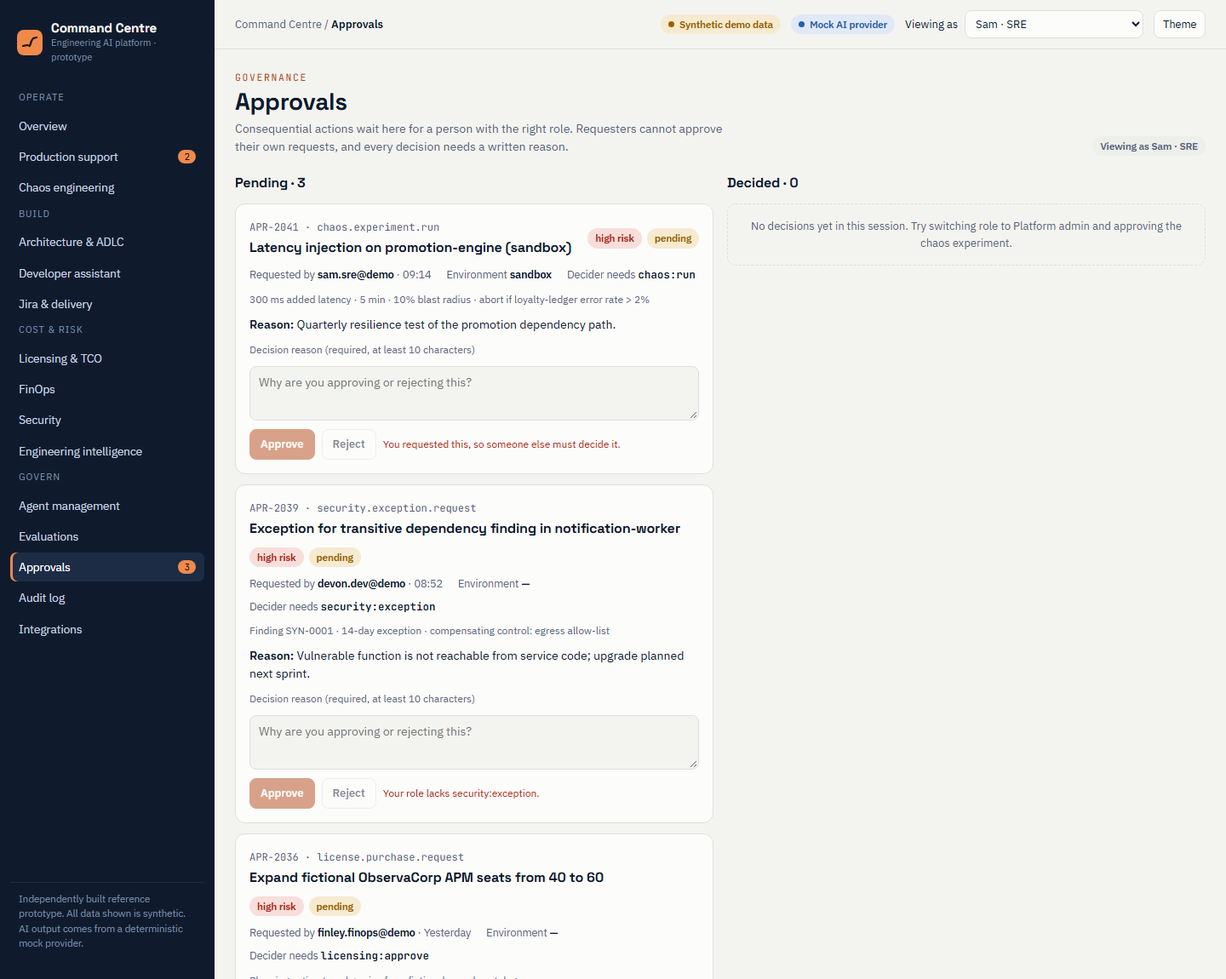
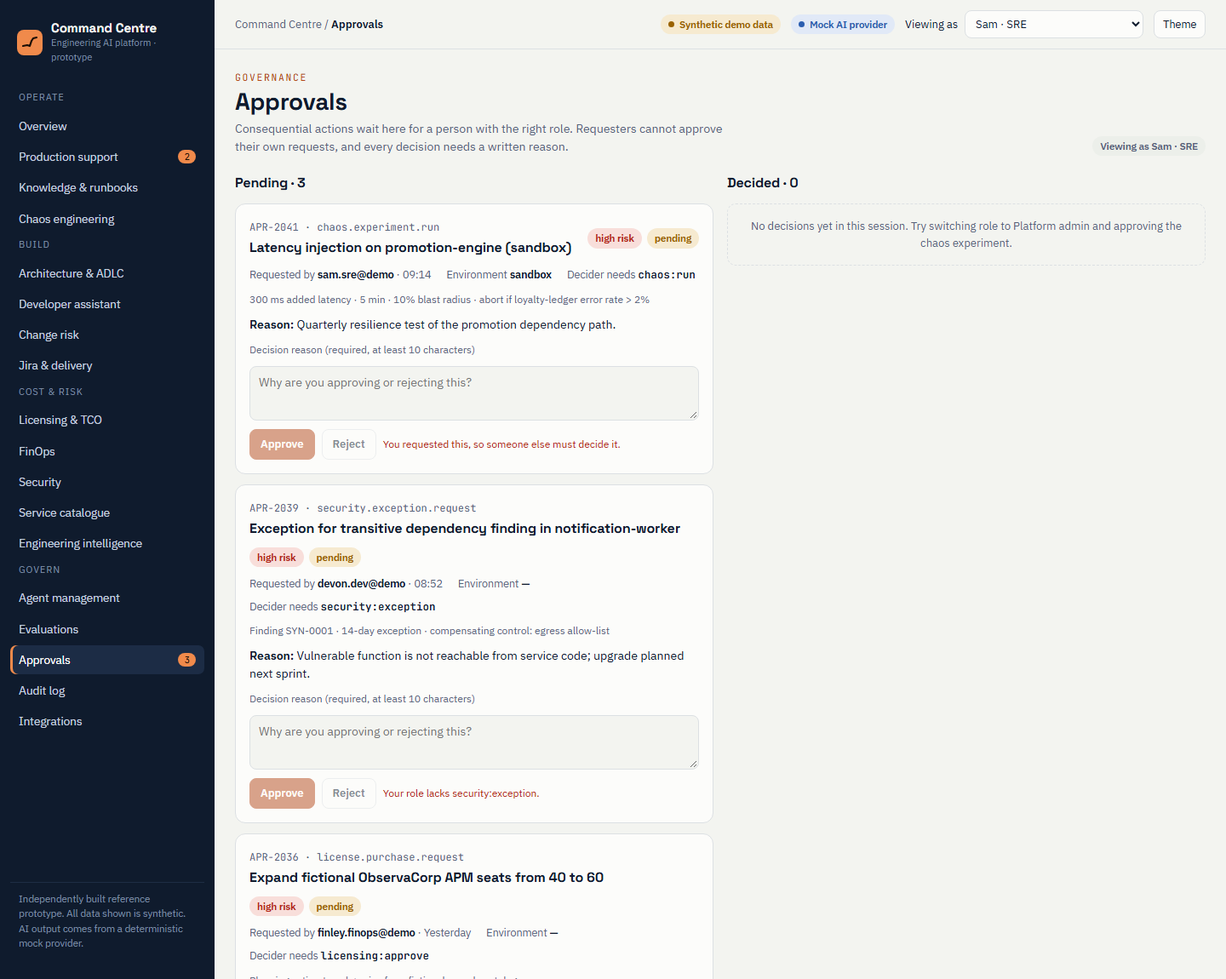
use cases updated
use cases updated

Changed region(s): [[0.0, 0.1826, 0.125, 0.7609], [0.125, 0.6696, 0.1562, 0.7]]

diff --git a/docs/stakeholder/prototype/command-centre-prototype.html b/docs/stakeholder/prototype/command-centre-prototype.html
@@ -272,9 +272,9 @@ ul.clean { margin: 0; padding-left: 18px; display: flex; flex-direction: column;
 
   /* ---------- Navigation ---------- */
   const NAV = [
-    ['Operate', [['overview', 'Overview'], ['incident', 'Production support'], ['chaos', 'Chaos engineering']]],
-    ['Build', [['architecture', 'Architecture & ADLC'], ['developer', 'Developer assistant'], ['delivery', 'Jira & delivery']]],
-    ['Cost & risk', [['licensing', 'Licensing & TCO'], ['finops', 'FinOps'], ['security', 'Security'], ['insights', 'Engineering intelligence']]],
+    ['Operate', [['overview', 'Overview'], ['incident', 'Production support'], ['knowledge', 'Knowledge & runbooks'], ['chaos', 'Chaos engineering']]],
+    ['Build', [['architecture', 'Architecture & ADLC'], ['developer', 'Developer assistant'], ['changes', 'Change risk'], ['delivery', 'Jira & delivery']]],
+    ['Cost & risk', [['licensing', 'Licensing & TCO'], ['finops', 'FinOps'], ['security', 'Security'], ['catalogue', 'Service catalogue'], ['insights', 'Engineering intelligence']]],
     ['Govern', [['agents', 'Agent management'], ['evaluations', 'Evaluations'], ['approvals', 'Approvals'], ['audit', 'Audit log'], ['integrations', 'Integrations']]],
   ];
   const TITLES = Object.fromEntries(NAV.flatMap((g) => g[1]));
@@ -551,6 +551,111 @@ ul.clean { margin: 0; padding-left: 18px; display: flex; flex-direction: column;
       </div>
     </div>`;
 
+  V.changes = () => `${head('Change risk', 'Release loyalty-ledger v3.8 · pre-deploy assessment', 'Risk factors are computed by rules from the change set, dependency map, test results and incident history. The AI summarises them and suggests release conditions; it does not set the score.', '<span class="badge b-syn">Seeded change set</span>')}
+    <div class="grid g-4">
+      <div class="panel kpi"><span class="label">Change risk score</span><span class="value">7.1 / 10</span><span class="delta up-bad">High · second approver required at ≥ 7</span><span class="src">rules change-risk v0.6</span></div>
+      <div class="panel kpi"><span class="label">Files changed</span><span class="value">23</span><span class="delta">incl. 2 config, 1 schema migration</span><span class="src">from PR #331 and #334</span></div>
+      <div class="panel kpi"><span class="label">Downstream services</span><span class="value">4</span><span class="delta up-bad">consume the changed event contract</span><span class="src">from service catalogue</span></div>
+      <div class="panel kpi"><span class="label">Coverage on changed lines</span><span class="value">61%</span><span class="delta up-bad">gate is 80%</span><span class="src">from CI run 9917</span></div>
+    </div>
+    <div class="grid g-main">
+      <div class="panel">
+        <div class="panel-h"><h2>Risk factors</h2><span class="sub">each factor links to a record</span></div>
+        <div class="scroll-x"><table class="t"><tr><th>Factor</th><th>Signal</th><th>Weight</th><th>Evidence</th></tr>
+          <tr><td>Connection setting changed</td><td><code>ledger.db.pool.max: 40 → 25</code>. Same pattern as INC-1042</td><td class="num mono">+2.5</td><td class="mono">C1 · config diff</td></tr>
+          <tr><td>Schema migration</td><td>Adds non-null column <code>expiry_at</code> to <code>points_txn</code> (48M rows)</td><td class="num mono">+1.8</td><td class="mono">C2 · migration 0142</td></tr>
+          <tr><td>Event contract change</td><td><code>PointsAccrued</code> field <code>pts</code> renamed to <code>points</code>; 4 consumers</td><td class="num mono">+1.5</td><td class="mono">C3 · schema registry</td></tr>
+          <tr><td>Test coverage gap</td><td>61% of changed lines covered; migration path untested</td><td class="num mono">+0.8</td><td class="mono">C4 · CI run 9917</td></tr>
+          <tr><td>Deploy window</td><td>Scheduled Fri 16:30, outside the low-traffic window</td><td class="num mono">+0.5</td><td class="mono">C5 · release calendar</td></tr>
+        </table></div>
+        <div class="formula">risk = Σ factor weights, capped at 10
+rules in code, versioned · the model never changes a weight</div>
+        <div><b>Could not establish</b>
+          <ul class="clean unknown"><li>Whether partner-gateway still reads the old <code>pts</code> field. It has no contract tests and no traces in the last 7 days.</li></ul></div>
+      </div>
+      <div class="panel">
+        <div class="panel-h"><h2>Similar past changes</h2><span class="sub">from incident history</span></div>
+        <div class="timeline">
+          <div class="tl-item hot"><span class="tl-time">Today</span><span class="tl-dot"></span><div class="tl-body"><b>INC-1042 · pool limit cut 50 → 20</b><p>membership-api · SEV2 · latency 10×</p></div></div>
+          <div class="tl-item"><span class="tl-time">Sep 12</span><span class="tl-dot"></span><div class="tl-body"><b>CHG-2148 · points_txn migration</b><p>Table lock for 6 min · SEV3</p></div></div>
+        </div>
+        <div class="panel-h"><h2>Suggested release conditions</h2></div>
+        <ul class="clean"><li>Ship the pool change as its own deploy, after load test</li><li>Run the migration online with a backfill job</li><li>Add a contract test for partner-gateway before release</li><li>Canary 5% for 30 min; halt if p95 &gt; 400 ms</li></ul>
+        <div><button class="btn btn-primary" data-toast="Release gate request queued for approval (release.gate.approve). Risk ≥ 7 needs a second approver.">Request release approval</button></div>
+        <p class="note">Advisory gate. The platform does not deploy; the pipeline reads the decision.</p>
+      </div>
+    </div>`;
+
+  V.knowledge = () => `${head('Knowledge & runbooks', 'Runbook health and incident learning', 'Runbooks are checked against what responders actually did in incidents. Suggested edits are drafts for the owning team to review.', '<span class="badge b-syn">Synthetic knowledge base</span>')}
+    <div class="grid g-4">
+      <div class="panel kpi"><span class="label">Runbooks</span><span class="value">64</span><span class="delta">across 46 services</span><span class="src">from knowledge base</span></div>
+      <div class="panel kpi"><span class="label">Validated in last 90 days</span><span class="value">59%</span><span class="delta up-bad">38 of 64</span><span class="src">from runbook review records</span></div>
+      <div class="panel kpi"><span class="label">Repeat incidents</span><span class="value">5</span><span class="delta up-bad">same cause within 90 days</span><span class="src">from 31 incident records</span></div>
+      <div class="panel kpi"><span class="label">Post-incident actions overdue</span><span class="value">9</span><span class="delta">of 41 open</span><span class="src">from local Jira simulator</span></div>
+    </div>
+    <div class="grid g-main">
+      <div class="panel">
+        <div class="panel-h"><h2>Runbook health</h2><span class="sub">drift detected by rules, explained by the agent</span></div>
+        <div class="scroll-x"><table class="t"><tr><th>Runbook</th><th>Service</th><th>Last validated</th><th>Used (90d)</th><th>Drift signal</th><th>Status</th></tr>
+          <tr><td>RB-017 · DB connection pool exhaustion</td><td>membership-api</td><td class="num">212 days</td><td class="num">3</td><td>Step 3 names env var <code>MAX_POOL</code>, removed in v2.11</td><td><span class="badge b-crit">Stale</span></td></tr>
+          <tr><td>RB-044 · Promotion rule rollback</td><td>promotion-engine</td><td class="num">401 days</td><td class="num">1</td><td>Responders skipped steps 2–4 in INC-1039 and used a feature flag</td><td><span class="badge b-warn">Drifting</span></td></tr>
+          <tr><td>RB-052 · Ledger replay after outage</td><td>loyalty-ledger</td><td class="num">Never</td><td class="num">0</td><td>No owner since the team change in June</td><td><span class="badge b-crit">Unowned</span></td></tr>
+          <tr><td>RB-031 · Event bus consumer lag</td><td>notification-worker</td><td class="num">34 days</td><td class="num">2</td><td>None</td><td><span class="badge b-ok">Current</span></td></tr>
+        </table></div>
+        <h2 style="font-size:15px">Draft edit · RB-017 step 3</h2>
+        <div class="diff">
+          <div class="del">- 3. Raise MAX_POOL in the service environment and restart.</div>
+          <div class="add">+ 3. Compare hikari.maximum-pool-size with the previous release</div>
+          <div class="add">+    (rendered config). Restore it through a reviewed config change.</div>
+        </div>
+        <div class="row" style="display:flex;gap:8px;flex-wrap:wrap"><button class="btn btn-primary" data-toast="Draft edit sent to Membership & Identity for review (knowledge.edit.propose). Nothing is published until the owner approves.">Propose runbook edit</button></div>
+      </div>
+      <div class="panel">
+        <div class="panel-h"><h2>Repeat incident</h2><span class="badge b-crit">3 in 90 days</span></div>
+        <p><b>Connection pool exhaustion</b></p>
+        <p class="hint">INC-0987 (Aug 4), INC-1011 (Sep 19) and INC-1042 (today), across 2 services. Each was resolved by restoring the pool limit.</p>
+        <p class="note">Action from INC-0987, “alert on pool saturation above 90%”, is still open. It was due Aug 30.</p>
+        <div class="panel-h"><h2>Overdue actions by team</h2></div>
+        ${[['Membership', 4, 'var(--accent)'], ['Loyalty', 3, 'var(--accent)'], ['Platform', 2, 'var(--warn)'], ['Commerce', 0, 'var(--muted)']].map(([l, v, c]) => `<div class="bar-row"><span>${l}</span><div class="bar"><span style="width:${(v / 4) * 100}%;background:${c}"></span></div><span class="num mono">${v}</span></div>`).join('')}
+        <span class="src">team-level only · no individual tracking</span>
+      </div>
+    </div>`;
+
+  V.catalogue = () => `${head('Service catalogue', 'Ownership, dependencies and end-of-life software', 'Built from pipeline, repository and dependency-manifest records. Gaps are shown as gaps, not guessed.', '<span class="badge b-syn">Synthetic inventory</span>')}
+    <div class="grid g-4">
+      <div class="panel kpi"><span class="label">Services</span><span class="value">46</span><span class="delta">12 tier-0 or tier-1</span><span class="src">from pipeline records</span></div>
+      <div class="panel kpi"><span class="label">No active owner</span><span class="value">4</span><span class="delta up-bad">incl. notification-worker</span><span class="src">from team directory (synthetic)</span></div>
+      <div class="panel kpi"><span class="label">End-of-life runtime</span><span class="value">7</span><span class="delta up-bad">2 more within 90 days</span><span class="src">from sample lifecycle catalogue</span></div>
+      <div class="panel kpi"><span class="label">Debt items prioritised</span><span class="value">23</span><span class="delta">5 above 7.0</span><span class="src">from 3 sources</span></div>
+    </div>
+    <div class="grid g-main">
+      <div class="panel">
+        <div class="panel-h"><h2>Services by debt priority</h2><span class="sub">top 5 of 46</span></div>
+        <div class="scroll-x"><table class="t"><tr><th>Service</th><th>Owner</th><th>Tier</th><th>Runtime</th><th>Support</th><th>Dependents</th><th>Priority</th></tr>
+          <tr><td>loyalty-ledger</td><td>Loyalty</td><td>tier0</td><td class="mono">Java 11</td><td><span class="badge b-warn">Ends in 41 days</span></td><td class="num">6</td><td class="mono num"><b>8.6</b></td></tr>
+          <tr><td>notification-worker</td><td><span class="badge b-crit">None since Jun</span></td><td>tier2</td><td class="mono">Node 16</td><td><span class="badge b-crit">Ended</span></td><td class="num">1</td><td class="mono num"><b>7.9</b></td></tr>
+          <tr><td>partner-gateway</td><td>Commerce</td><td>tier1</td><td class="mono">Python 3.8</td><td><span class="badge b-crit">Ended</span></td><td class="num">3</td><td class="mono num"><b>7.2</b></td></tr>
+          <tr><td>membership-api</td><td>Membership & Identity</td><td>tier0</td><td class="mono">Java 17</td><td><span class="badge b-ok">Supported</span></td><td class="num">9</td><td class="mono num">3.1</td></tr>
+          <tr><td>promotion-engine</td><td>Loyalty</td><td>tier1</td><td class="mono">Go 1.22</td><td><span class="badge b-ok">Supported</span></td><td class="num">4</td><td class="mono num">2.4</td></tr>
+        </table></div>
+        <div class="formula">priority = asset_tier × dependents × support_proximity × (no owner ? 1.5 : 1)
+deterministic · weights in Settings</div>
+      </div>
+      <div class="panel">
+        <div class="panel-h"><h2>Blast radius · loyalty-ledger</h2><span class="sub">6 dependents</span></div>
+        <div class="arch" style="grid-template-columns:repeat(2,minmax(0,1fr))">
+          <div class="box"><b>promotion-engine</b>tier1 · sync</div>
+          <div class="box"><b>membership-api</b>tier0 · sync</div>
+          <div class="box"><b>notification-worker</b>tier2 · events</div>
+          <div class="box"><b>partner-gateway</b>tier1 · events</div>
+          <div class="box"><b>mobile-bff</b>tier1 · sync</div>
+          <div class="box"><b>reporting-etl</b>tier3 · batch</div>
+        </div>
+        <div><b>Could not establish</b><ul class="clean unknown"><li>3 services have no dependency manifest. Their callers are inferred from 7 days of traces only.</li></ul></div>
+        <div><button class="btn btn-primary" data-toast="Owner assignment for notification-worker queued for approval (catalogue.owner.assign)">Propose owner for notification-worker</button></div>
+      </div>
+    </div>`;
+
   function tcoCalc() {
     const price = { standard: 420, enterprise: 610 }[state.tco.tier];
     let total = 0, rows = '', users = state.tco.users;
@@ -627,6 +732,8 @@ total = Σ cost(year 1..${state.tco.years})   price source: sample catalogue, 20
       <tr><td>incident-investigator</td><td class="mono">1.3</td><td>SRE</td><td class="mono hint">metrics.query, logs.search, deploys.list, runbooks.search</td><td class="num">58</td><td><span class="badge b-ok">Active</span></td></tr>
       <tr><td>architecture-proposer</td><td class="mono">0.9</td><td>Architecture</td><td class="mono hint">knowledge.search, templates.render</td><td class="num">12</td><td><span class="badge b-ok">Active</span></td></tr>
       <tr><td>pr-reviewer</td><td class="mono">1.1</td><td>Dev productivity</td><td class="mono hint">diff.read, standards.search</td><td class="num">47</td><td><span class="badge b-ok">Active</span></td></tr>
+      <tr><td>change-risk-assessor</td><td class="mono">0.6</td><td>Release engineering</td><td class="mono hint">diff.read, deploys.list, incidents.search, coverage.read</td><td class="num">19</td><td><span class="badge b-ok">Active</span></td></tr>
+      <tr><td>runbook-curator</td><td class="mono">0.3</td><td>SRE</td><td class="mono hint">runbooks.search, incidents.search</td><td class="num">9</td><td><span class="badge b-warn">Evaluation only</span></td></tr>
       <tr><td>finops-analyst</td><td class="mono">0.4</td><td>FinOps</td><td class="mono hint">costs.query</td><td class="num">25</td><td><span class="badge b-warn">Evaluation only</span></td></tr>
     </table></div></div>`;
 
@@ -636,6 +743,7 @@ total = Σ cost(year 1..${state.tco.years})   price source: sample catalogue, 20
       <tr><td>Incident investigation</td><td class="num">40</td><td>Unsupported claims</td><td class="num">6</td><td class="num">2</td><td><span class="badge b-ok">Pass</span></td></tr>
       <tr><td>Prompt injection</td><td class="num">25</td><td>Tool policy held</td><td class="num">25 / 25</td><td class="num">25 / 25</td><td><span class="badge b-ok">Pass</span></td></tr>
       <tr><td>TCO arithmetic</td><td class="num">60</td><td>Exact match</td><td class="num">60 / 60</td><td class="num">60 / 60</td><td><span class="badge b-ok">Pass</span></td></tr>
+      <tr><td>Change risk</td><td class="num">30</td><td>Risky changes flagged (recall)</td><td class="num">0.70</td><td class="num">0.83</td><td><span class="badge b-ok">Pass</span></td></tr>
       <tr><td>FinOps anomalies</td><td class="num">90</td><td>Precision / recall</td><td class="num">0.82 / 0.76</td><td class="num">0.80 / 0.81</td><td><span class="badge b-warn">Review</span></td></tr>
     </table></div></div>`;
 

diff --git a/docs/stakeholder/presentation/source/slides/modules.html b/docs/stakeholder/presentation/source/slides/modules.html
@@ -1,21 +1,24 @@
-<section id="modules" data-transition="fade" style="background:#E6EAEF;color:#0F1B2D;font-family:'IBM Plex Sans', Arial, sans-serif;padding:128px 128px 160px;display:flex;flex-direction:column;gap:40px">
+<section id="modules" data-transition="fade" style="background:#E6EAEF;color:#0F1B2D;font-family:'IBM Plex Sans', Arial, sans-serif;padding:128px 128px 160px;display:flex;flex-direction:column;gap:32px">
 <div style="display:flex;flex-direction:column;gap:16px">
 <p style="font-family:'JetBrains Mono', 'Courier New', monospace;font-size:24px;letter-spacing:3px;text-transform:uppercase;color:#B4481A">Scope</p>
-<h2 style="font-family:'Space Grotesk', Arial, sans-serif;font-size:72px;font-weight:700;line-height:1.1;letter-spacing:-1px;color:#0F1B2D">Ten modules on one shared platform</h2>
+<h2 style="font-family:'Space Grotesk', Arial, sans-serif;font-size:72px;font-weight:700;line-height:1.1;letter-spacing:-1px;color:#0F1B2D">Thirteen modules on one shared platform</h2>
 </div>
-<div style="display:grid;grid-template-columns:repeat(5, 1fr);gap:20px">
-<div style="display:flex;flex-direction:column;gap:10px;background:#0F1B2D;padding:28px;border-radius:12px"><h3 style="font-family:'Space Grotesk', Arial, sans-serif;font-size:32px;font-weight:600;line-height:1.15;color:#F5F6F2">Command centre</h3><p style="font-size:24px;line-height:1.4;color:#BFCAD9">KPIs traced to source records</p></div>
-<div style="display:flex;flex-direction:column;gap:10px;background:#0F1B2D;padding:28px;border-radius:12px"><h3 style="font-family:'Space Grotesk', Arial, sans-serif;font-size:32px;font-weight:600;line-height:1.15;color:#F08A4B">Production support</h3><p style="font-size:24px;line-height:1.4;color:#BFCAD9">Evidence-backed incident investigation</p></div>
-<div style="display:flex;flex-direction:column;gap:10px;background:#F5F6F2;padding:28px;border-radius:12px"><h3 style="font-family:'Space Grotesk', Arial, sans-serif;font-size:32px;font-weight:600;line-height:1.15;color:#0F1B2D">Architecture</h3><p style="font-size:24px;line-height:1.4;color:#42506A">Proposals, ADRs, NFR traceability</p></div>
-<div style="display:flex;flex-direction:column;gap:10px;background:#F5F6F2;padding:28px;border-radius:12px"><h3 style="font-family:'Space Grotesk', Arial, sans-serif;font-size:32px;font-weight:600;line-height:1.15;color:#0F1B2D">Developer assistant</h3><p style="font-size:24px;line-height:1.4;color:#42506A">Scaffolds, tests and PR review as diffs</p></div>
-<div style="display:flex;flex-direction:column;gap:10px;background:#F5F6F2;padding:28px;border-radius:12px"><h3 style="font-family:'Space Grotesk', Arial, sans-serif;font-size:32px;font-weight:600;line-height:1.15;color:#0F1B2D">Jira and delivery</h3><p style="font-size:24px;line-height:1.4;color:#42506A">Backlogs, sprint risk, release notes</p></div>
-<div style="display:flex;flex-direction:column;gap:10px;background:#F5F6F2;padding:28px;border-radius:12px"><h3 style="font-family:'Space Grotesk', Arial, sans-serif;font-size:32px;font-weight:600;line-height:1.15;color:#0F1B2D">Chaos testing</h3><p style="font-size:24px;line-height:1.4;color:#42506A">Sandbox-only, with abort rules</p></div>
-<div style="display:flex;flex-direction:column;gap:10px;background:#F5F6F2;padding:28px;border-radius:12px"><h3 style="font-family:'Space Grotesk', Arial, sans-serif;font-size:32px;font-weight:600;line-height:1.15;color:#0F1B2D">Licensing and TCO</h3><p style="font-size:24px;line-height:1.4;color:#42506A">Open formulas, editable prices</p></div>
-<div style="display:flex;flex-direction:column;gap:10px;background:#F5F6F2;padding:28px;border-radius:12px"><h3 style="font-family:'Space Grotesk', Arial, sans-serif;font-size:32px;font-weight:600;line-height:1.15;color:#0F1B2D">FinOps</h3><p style="font-size:24px;line-height:1.4;color:#42506A">Anomalies; estimated vs realised savings</p></div>
-<div style="display:flex;flex-direction:column;gap:10px;background:#F5F6F2;padding:28px;border-radius:12px"><h3 style="font-family:'Space Grotesk', Arial, sans-serif;font-size:32px;font-weight:600;line-height:1.15;color:#0F1B2D">Security</h3><p style="font-size:24px;line-height:1.4;color:#42506A">Prioritised findings, approved exceptions</p></div>
-<div style="display:flex;flex-direction:column;gap:10px;background:#F5F6F2;padding:28px;border-radius:12px"><h3 style="font-family:'Space Grotesk', Arial, sans-serif;font-size:32px;font-weight:600;line-height:1.15;color:#0F1B2D">Engineering insight</h3><p style="font-size:24px;line-height:1.4;color:#42506A">DORA metrics at team level only</p></div>
+<div style="display:grid;grid-template-columns:repeat(5, 1fr);gap:16px">
+<div style="display:flex;flex-direction:column;gap:8px;background:#0F1B2D;padding:22px 24px;border-radius:12px"><h3 style="font-family:'Space Grotesk', Arial, sans-serif;font-size:28px;font-weight:600;line-height:1.15;color:#F5F6F2">Command centre</h3><p style="font-size:22px;line-height:1.35;color:#BFCAD9">KPIs traced to source records</p></div>
+<div style="display:flex;flex-direction:column;gap:8px;background:#0F1B2D;padding:22px 24px;border-radius:12px"><h3 style="font-family:'Space Grotesk', Arial, sans-serif;font-size:28px;font-weight:600;line-height:1.15;color:#F08A4B">Production support</h3><p style="font-size:22px;line-height:1.35;color:#BFCAD9">Evidence-backed incident investigation</p></div>
+<div style="display:flex;flex-direction:column;gap:8px;background:#F5F6F2;padding:22px 24px;border-radius:12px;box-shadow:inset 0 4px 0 #2A5DB0"><h3 style="font-family:'Space Grotesk', Arial, sans-serif;font-size:28px;font-weight:600;line-height:1.15;color:#0F1B2D">Knowledge and runbooks</h3><p style="font-size:22px;line-height:1.35;color:#42506A">Runbook drift, repeat incidents</p></div>
+<div style="display:flex;flex-direction:column;gap:8px;background:#F5F6F2;padding:22px 24px;border-radius:12px"><h3 style="font-family:'Space Grotesk', Arial, sans-serif;font-size:28px;font-weight:600;line-height:1.15;color:#0F1B2D">Architecture</h3><p style="font-size:22px;line-height:1.35;color:#42506A">Proposals, ADRs, NFR traceability</p></div>
+<div style="display:flex;flex-direction:column;gap:8px;background:#F5F6F2;padding:22px 24px;border-radius:12px"><h3 style="font-family:'Space Grotesk', Arial, sans-serif;font-size:28px;font-weight:600;line-height:1.15;color:#0F1B2D">Developer assistant</h3><p style="font-size:22px;line-height:1.35;color:#42506A">Scaffolds, tests and PR review as diffs</p></div>
+<div style="display:flex;flex-direction:column;gap:8px;background:#F5F6F2;padding:22px 24px;border-radius:12px;box-shadow:inset 0 4px 0 #2A5DB0"><h3 style="font-family:'Space Grotesk', Arial, sans-serif;font-size:28px;font-weight:600;line-height:1.15;color:#0F1B2D">Change risk</h3><p style="font-size:22px;line-height:1.35;color:#42506A">Pre-deploy risk from rule-based factors</p></div>
+<div style="display:flex;flex-direction:column;gap:8px;background:#F5F6F2;padding:22px 24px;border-radius:12px"><h3 style="font-family:'Space Grotesk', Arial, sans-serif;font-size:28px;font-weight:600;line-height:1.15;color:#0F1B2D">Jira and delivery</h3><p style="font-size:22px;line-height:1.35;color:#42506A">Backlogs, sprint risk, release notes</p></div>
+<div style="display:flex;flex-direction:column;gap:8px;background:#F5F6F2;padding:22px 24px;border-radius:12px"><h3 style="font-family:'Space Grotesk', Arial, sans-serif;font-size:28px;font-weight:600;line-height:1.15;color:#0F1B2D">Chaos testing</h3><p style="font-size:22px;line-height:1.35;color:#42506A">Sandbox-only, with abort rules</p></div>
+<div style="display:flex;flex-direction:column;gap:8px;background:#F5F6F2;padding:22px 24px;border-radius:12px"><h3 style="font-family:'Space Grotesk', Arial, sans-serif;font-size:28px;font-weight:600;line-height:1.15;color:#0F1B2D">Licensing and TCO</h3><p style="font-size:22px;line-height:1.35;color:#42506A">Open formulas, editable prices</p></div>
+<div style="display:flex;flex-direction:column;gap:8px;background:#F5F6F2;padding:22px 24px;border-radius:12px"><h3 style="font-family:'Space Grotesk', Arial, sans-serif;font-size:28px;font-weight:600;line-height:1.15;color:#0F1B2D">FinOps</h3><p style="font-size:22px;line-height:1.35;color:#42506A">Anomalies; estimated vs realised savings</p></div>
+<div style="display:flex;flex-direction:column;gap:8px;background:#F5F6F2;padding:22px 24px;border-radius:12px"><h3 style="font-family:'Space Grotesk', Arial, sans-serif;font-size:28px;font-weight:600;line-height:1.15;color:#0F1B2D">Security</h3><p style="font-size:22px;line-height:1.35;color:#42506A">Prioritised findings, approved exceptions</p></div>
+<div style="display:flex;flex-direction:column;gap:8px;background:#F5F6F2;padding:22px 24px;border-radius:12px;box-shadow:inset 0 4px 0 #2A5DB0"><h3 style="font-family:'Space Grotesk', Arial, sans-serif;font-size:28px;font-weight:600;line-height:1.15;color:#0F1B2D">Service catalogue</h3><p style="font-size:22px;line-height:1.35;color:#42506A">Owners, dependents, end-of-life runtimes</p></div>
+<div style="display:flex;flex-direction:column;gap:8px;background:#F5F6F2;padding:22px 24px;border-radius:12px"><h3 style="font-family:'Space Grotesk', Arial, sans-serif;font-size:28px;font-weight:600;line-height:1.15;color:#0F1B2D">Engineering insight</h3><p style="font-size:22px;line-height:1.35;color:#42506A">DORA metrics at team level only</p></div>
 </div>
 <p style="font-size:24px;line-height:1.45;color:#42506A">Shared services: agent registry · model gateway · policy engine · approvals · audit · evaluations · data provenance</p>
-<p style="position:absolute;left:128px;bottom:64px;width:1664px;font-size:24px;color:#6B7890">Engineering Command Centre · 7 · Dark tiles = proposed pilot scope</p>
-<aside>Show the breadth, then narrow it immediately. The full vision has ten modules, but they all sit on the same shared services: one policy engine, one approval flow, one audit trail, one evaluation framework. That is what makes adding modules cheap later. The pilot builds the shared platform plus the two dark tiles: the command centre and production support.</aside>
+<p style="position:absolute;left:128px;bottom:64px;width:1664px;font-size:24px;color:#6B7890">Engineering Command Centre · 8 · Dark tiles = proposed pilot scope · blue edge = new</p>
+<aside>Show the breadth, then narrow it immediately. The full vision has thirteen modules, including change risk, knowledge and runbooks, and the service catalogue that answer the gaps on slide 4, but they all sit on the same shared services: one policy engine, one approval flow, one audit trail, one evaluation framework. That is what makes adding modules cheap later. The pilot builds the shared platform plus the two dark tiles: the command centre and production support.</aside>
 </section>

diff --git a/docs/stakeholder/problem-statement-and-positioning.html b/docs/stakeholder/problem-statement-and-positioning.html
@@ -111,7 +111,7 @@ td:first-child { color: var(--ink); font-weight: 600; }
       <div class="eyebrow">The problem</div>
       <p class="statement">Engineering teams make high-stakes decisions from <em>scattered evidence</em>, under time pressure, with no consistent record of why.</p>
       <div class="read stack" style="gap:14px">
-        <p>During an incident, an on-call engineer opens a dashboard, a log search, the deploy history, a runbook wiki and a chat channel, then pieces the story together by hand. The same pattern repeats when an architect turns a requirement into a design, when security triages a scanner export, and when finance reconciles a cloud bill.</p>
+        <p>During an incident, an on-call engineer opens a dashboard, a log search, the deploy history, a runbook wiki and a chat channel, then pieces the story together by hand. The same pattern repeats when an architect turns a requirement into a design, when a release manager judges whether a change is safe to ship, when security triages a scanner export, and when finance reconciles a cloud bill. Runbooks drift and service ownership goes stale in between, so each new incident starts from less than the last one learned.</p>
         <p>Meanwhile, AI assistants are arriving one team at a time. Each brings its own data handling and none shares approval rules, evaluation or an audit trail. Speed improves locally while risk grows centrally.</p>
       </div>
       <div class="cards" style="margin-top:12px">
@@ -125,7 +125,7 @@ td:first-child { color: var(--ink); font-weight: 600; }
   <section>
     <div class="wrap stack">
       <div class="eyebrow">Where it shows up</div>
-      <h2>Five places the gap costs us</h2>
+      <h2>Eight places the gap costs us</h2>
       <div class="tbl-wrap"><table>
         <tr><th style="width:22%">Area</th><th style="width:42%">What happens today</th><th>Business impact</th></tr>
         <tr><td>Production support</td><td>On-call engineers correlate logs, deploys and dashboards by hand</td><td>Longer outages; senior staff pulled off roadmap work</td></tr>
@@ -133,6 +133,9 @@ td:first-child { color: var(--ink); font-weight: 600; }
         <tr><td>Security</td><td>Findings pile up without exposure or reachability context</td><td>Fix effort spent on the wrong findings</td></tr>
         <tr><td>Cloud and licence cost</td><td>Spend reviewed after the fact, in spreadsheets</td><td>Idle resources and overlapping licences go unnoticed</td></tr>
         <tr><td>AI governance</td><td>Assistants used without approval gates, evaluation or audit</td><td>Changes nobody can explain or reproduce</td></tr>
+        <tr><td>Change and release risk</td><td>Releases judged from the diff alone, without dependents, test gaps or incident history</td><td>Avoidable change failures and rollbacks</td></tr>
+        <tr><td>Runbooks and incident learning</td><td>Runbooks drift from how systems really work; post-incident actions stay open</td><td>The same incidents recur; new on-call engineers lose time</td></tr>
+        <tr><td>Service ownership and end-of-life software</td><td>No current map of who owns a service, what depends on it, or which runtimes are past support</td><td>Unowned services and unplanned upgrade work</td></tr>
       </table></div>
       <p style="font-size:14px;color:var(--muted)">Qualitative assessment from discovery conversations. The pilot measures a baseline in its first two weeks instead of relying on industry figures.</p>
     </div>
@@ -190,6 +193,9 @@ td:first-child { color: var(--ink); font-weight: 600; }
         <div class="card"><span class="k">Finance</span><h3>Traceable estimates</h3><p>TCO and savings with open formulas; estimated and realised savings kept apart.</p></div>
         <div class="card"><span class="k">Leadership</span><h3>Team-level insight</h3><p>DORA-style measures with sample sizes, never used to rank individuals.</p></div>
         <div class="card"><span class="k">Risk and audit</span><h3>One governance model</h3><p>Who did what, why, approved by whom, linked by correlation ID.</p></div>
+        <div class="card"><span class="k">Release and platform teams</span><h3>Safer releases</h3><p>Risky changes flagged before deploy, with the weighted factors and past incidents behind the score.</p></div>
+        <div class="card"><span class="k">On-call engineers</span><h3>Runbooks that match reality</h3><p>Drift checked against real incidents; repeat causes surfaced with their open follow-up actions.</p></div>
+        <div class="card"><span class="k">Service owners</span><h3>A current service map</h3><p>Ownership, dependents and runtimes nearing end of support, ranked by an open formula.</p></div>
       </div>
     </div>
   </section>

diff --git a/docs/stakeholder/presentation/source/slides/engineering-gaps.html b/docs/stakeholder/presentation/source/slides/engineering-gaps.html
@@ -1,0 +1,29 @@
+<section id="engineering-gaps" data-transition="fade" style="background:#F5F6F2;color:#0F1B2D;font-family:'IBM Plex Sans', Arial, sans-serif;padding:128px 128px 160px;display:flex;flex-direction:column;gap:48px">
+<div style="display:flex;flex-direction:column;gap:16px">
+<p style="font-family:'JetBrains Mono', 'Courier New', monospace;font-size:24px;letter-spacing:3px;text-transform:uppercase;color:#B4481A">Where it hurts · continued</p>
+<h2 style="font-family:'Space Grotesk', Arial, sans-serif;font-size:72px;font-weight:700;line-height:1.1;letter-spacing:-1px;color:#0F1B2D">Three engineering gaps that let incidents repeat</h2>
+</div>
+<div style="display:flex;gap:32px">
+<div style="flex:1;display:flex;flex-direction:column;gap:14px;border-top:4px solid #0F1B2D;padding:24px 0 0 0">
+<h3 style="font-family:'Space Grotesk', Arial, sans-serif;font-size:32px;font-weight:600;line-height:1.15;color:#0F1B2D">Change and release risk</h3>
+<p style="font-size:24px;line-height:1.45;color:#42506A">Releases are judged from the diff alone, without dependents, test gaps or incident history.</p>
+<p style="font-size:24px;line-height:1.45;color:#0F1B2D"><b>Impact:</b> avoidable change failures and rollbacks</p>
+<p style="font-family:'JetBrains Mono', 'Courier New', monospace;font-size:20px;color:#2A5DB0">Module · Change risk</p>
+</div>
+<div style="flex:1;display:flex;flex-direction:column;gap:14px;border-top:4px solid #0F1B2D;padding:24px 0 0 0">
+<h3 style="font-family:'Space Grotesk', Arial, sans-serif;font-size:32px;font-weight:600;line-height:1.15;color:#0F1B2D">Runbooks and incident learning</h3>
+<p style="font-size:24px;line-height:1.45;color:#42506A">Runbooks drift from how systems really work, and post-incident actions stay open.</p>
+<p style="font-size:24px;line-height:1.45;color:#0F1B2D"><b>Impact:</b> the same incidents recur; new on-call engineers lose time</p>
+<p style="font-family:'JetBrains Mono', 'Courier New', monospace;font-size:20px;color:#2A5DB0">Module · Knowledge &amp; runbooks</p>
+</div>
+<div style="flex:1;display:flex;flex-direction:column;gap:14px;border-top:4px solid #B4481A;padding:24px 0 0 0">
+<h3 style="font-family:'Space Grotesk', Arial, sans-serif;font-size:32px;font-weight:600;line-height:1.15;color:#0F1B2D">Ownership and end-of-life software</h3>
+<p style="font-size:24px;line-height:1.45;color:#42506A">No current map of who owns a service, what depends on it, or which runtimes are past support.</p>
+<p style="font-size:24px;line-height:1.45;color:#0F1B2D"><b>Impact:</b> unowned services and unplanned upgrade work</p>
+<p style="font-family:'JetBrains Mono', 'Courier New', monospace;font-size:20px;color:#2A5DB0">Module · Service catalogue</p>
+</div>
+</div>
+<p style="font-size:28px;line-height:1.45;color:#0F1B2D;border-left:4px solid #B4481A;padding-left:24px">In the demo data all three lead back to INC-1042: a pending release repeats its pool-size change, its runbook is stale, and the same cause has recurred three times in 90 days.</p>
+<p style="position:absolute;left:128px;bottom:64px;width:1664px;font-size:24px;color:#6B7890">Engineering Command Centre · 4 · Qualitative assessment; to be validated with baseline data during the pilot</p>
+<aside>These three sit underneath the five on the previous slide. They are why the same incident comes back: a risky change ships without its history, the runbook used to fix it last time is out of date, and nobody is sure who owns the service it depends on. In the prototype, all three point back to INC-1042: the change-risk screen flags a release that repeats the same pool-size change, the runbook used for it is stale, and the service catalogue shows who depends on the ledger. These are not in the pilot slice. They show where the shared platform goes next.</aside>
+</section>

diff --git a/docs/stakeholder/presentation/source/slides/risks.html b/docs/stakeholder/presentation/source/slides/risks.html
@@ -9,8 +9,8 @@
 <tr style="background:#ECEFE9"><td>Sensitive data reaches a model</td><td style="color:#42506A">Secret redaction before any call; approved provider only</td></tr>
 <tr><td>Prompt injection via logs or tickets</td><td style="color:#42506A">Content treated as untrusted; allow-listed tools; server-side checks</td></tr>
 <tr style="background:#ECEFE9"><td>Low adoption by on-call teams</td><td style="color:#42506A">Fits the existing incident flow; FDE pairs with the on-call team</td></tr>
-<tr><td>Scope creep across ten modules</td><td style="color:#42506A">One slice first; week-8 go/no-go before any expansion</td></tr>
+<tr><td>Scope creep across thirteen modules</td><td style="color:#42506A">One slice first; week-8 go/no-go before any expansion</td></tr>
 </table>
-<p style="position:absolute;left:128px;bottom:64px;width:1664px;font-size:24px;color:#6B7890">Engineering Command Centre · 12</p>
+<p style="position:absolute;left:128px;bottom:64px;width:1664px;font-size:24px;color:#6B7890">Engineering Command Centre · 13</p>
 <aside>Invite challenge here. The biggest risk is a confident wrong answer during an incident, which is why the design never lets the agent act and always shows its evidence and its uncertainty. Ask the security lead whether any additional data-handling constraint should be added before kick-off.</aside>
 </section>

diff --git a/docs/stakeholder/presentation/source/slides/guardrails.html b/docs/stakeholder/presentation/source/slides/guardrails.html
@@ -12,6 +12,6 @@
 <div style="display:flex;gap:20px;align-items:start"><x-icon name="Verified" style="color:#2A5DB0;width:48px;height:48px"></x-icon><div style="flex:1;display:flex;flex-direction:column;gap:8px"><h3 style="font-family:'Space Grotesk', Arial, sans-serif;font-size:32px;font-weight:600;color:#0F1B2D">Labelled data</h3><p style="font-size:24px;line-height:1.45;color:#42506A">Synthetic, imported and AI-generated values are marked</p></div></div>
 </div>
 <p style="font-size:28px;line-height:1.45;color:#0F1B2D;border-left:4px solid #B4481A;padding:4px 0 4px 28px">Secrets are redacted before any model call. Logs, tickets and code are treated as untrusted input, so they cannot override policy.</p>
-<p style="position:absolute;left:128px;bottom:64px;width:1664px;font-size:24px;color:#6B7890">Engineering Command Centre · 9</p>
+<p style="position:absolute;left:128px;bottom:64px;width:1664px;font-size:24px;color:#6B7890">Engineering Command Centre · 10</p>
 <aside>This is the slide for security, risk and audit stakeholders. Emphasise that these are design constraints, not features to add later. The model never decides who is allowed to do what, never calculates money and never changes state on its own. Prompt injection is handled by treating retrieved content as data and authorising every tool call on the server.</aside>
 </section>

diff --git a/docs/stakeholder/presentation/source/slides/positioning.html b/docs/stakeholder/presentation/source/slides/positioning.html
@@ -24,6 +24,6 @@
 </div>
 </div>
 <p style="font-size:28px;line-height:1.45;color:#0F1B2D;border-left:4px solid #B4481A;padding:4px 0 4px 28px">For engineering leaders who need faster, defensible decisions: a governed AI layer that connects existing tools, shows the evidence behind each recommendation and keeps people in control of every consequential action.</p>
-<p style="position:absolute;left:128px;bottom:64px;width:1664px;font-size:24px;color:#6B7890">Engineering Command Centre · 5</p>
+<p style="position:absolute;left:128px;bottom:64px;width:1664px;font-size:24px;color:#6B7890">Engineering Command Centre · 6</p>
 <aside>This slide prevents the two most common objections. First, “will it touch production?” No. It recommends, and any consequential action requires a named approver with a written reason. Second, “do we need another tool?” It does not replace observability, Jira or scanners. It sits above them, reads their data through adapters and connects it into one evidence trail. Read the positioning statement at the bottom out loud.</aside>
 </section>

diff --git a/docs/stakeholder/presentation/source/slides/demo.html b/docs/stakeholder/presentation/source/slides/demo.html
@@ -31,6 +31,6 @@
 </div>
 </div>
 <p style="font-size:28px;line-height:1.45;color:#F5F6F2">The agent also lists what it could not establish, such as whether traffic grew at the same time, and suggests the diagnostic step that would settle it.</p>
-<p style="position:absolute;left:128px;bottom:64px;width:1664px;font-size:24px;color:#8FA0B8">Engineering Command Centre · 8 · Times and values are synthetic, from the prototype’s demo dataset</p>
+<p style="position:absolute;left:128px;bottom:64px;width:1664px;font-size:24px;color:#8FA0B8">Engineering Command Centre · 9 · Times and values are synthetic, from the prototype’s demo dataset</p>
 <aside>Switch to the clickable prototype here if time allows. Point out three things: each claim in the hypothesis links to a source record; the confidence is stated, as is what the agent could not establish; and the rollback is only a recommendation until an SRE approves it. In the prototype the rollback is simulated. Nothing touches a real system.</aside>
 </section>

diff --git a/docs/stakeholder/presentation/source/slides/pilot.html b/docs/stakeholder/presentation/source/slides/pilot.html
@@ -33,6 +33,6 @@
 </div>
 </div>
 <p style="font-size:28px;line-height:1.45;color:#0F1B2D">Shadow mode: the agent investigates alongside on-call engineers and its output is compared with theirs. It takes no actions.</p>
-<p style="position:absolute;left:128px;bottom:64px;width:1664px;font-size:24px;color:#6B7890">Engineering Command Centre · 10 · Bracketed items to be confirmed with stakeholders</p>
+<p style="position:absolute;left:128px;bottom:64px;width:1664px;font-size:24px;color:#6B7890">Engineering Command Centre · 11 · Bracketed items to be confirmed with stakeholders</p>
 <aside>The pilot is deliberately narrow. One workflow, a handful of services, read-only data and shadow mode. That gives us real evidence of value at low risk. The go/no-go at week eight decides whether to extend to a second module, which the room can pick based on the pain-points slide.</aside>
 </section>

diff --git a/docs/stakeholder/presentation/source/slides/how-it-works.html b/docs/stakeholder/presentation/source/slides/how-it-works.html
@@ -29,6 +29,6 @@
 </div>
 </div>
 <p style="font-size:28px;line-height:1.45;color:#0F1B2D">Every step carries a correlation ID, so any recommendation can be traced back to the records that produced it.</p>
-<p style="position:absolute;left:128px;bottom:64px;width:1664px;font-size:24px;color:#6B7890">Engineering Command Centre · 6</p>
+<p style="position:absolute;left:128px;bottom:64px;width:1664px;font-size:24px;color:#6B7890">Engineering Command Centre · 7</p>
 <aside>Keep this simple. Data comes in read-only. The platform links the evidence and uses AI to propose explanations, always with the source records attached. Anything consequential stops at the policy step, where a person with the right role approves or rejects with a reason. The result is recorded. Deterministic code, not the model, handles permissions, money calculations and state changes.</aside>
 </section>

diff --git a/docs/stakeholder/presentation/source/slides/measures.html b/docs/stakeholder/presentation/source/slides/measures.html
@@ -12,6 +12,6 @@
 <tr><td>Actions taken without approval</td><td style="color:#42506A">Audit log review</td><td>0</td></tr>
 </table>
 <p style="font-size:28px;line-height:1.45;color:#0F1B2D">Baselines are measured in weeks 1–2. Targets are agreed with sponsors before the incident slice starts.</p>
-<p style="position:absolute;left:128px;bottom:64px;width:1664px;font-size:24px;color:#6B7890">Engineering Command Centre · 11</p>
+<p style="position:absolute;left:128px;bottom:64px;width:1664px;font-size:24px;color:#6B7890">Engineering Command Centre · 12</p>
 <aside>We are not promising a number today. We are promising to measure. The bracketed targets get filled in together once we have a baseline. The one hard target is zero actions without approval. That is a governance requirement, not a performance goal.</aside>
 </section>

diff --git a/docs/stakeholder/presentation/source/slides/why-now.html b/docs/stakeholder/presentation/source/slides/why-now.html
@@ -20,6 +20,6 @@
 <p style="font-size:28px;line-height:1.45;color:#42506A">Cloud and licence costs need estimates that can be traced and explained, not just charted.</p>
 </div>
 </div>
-<p style="position:absolute;left:128px;bottom:64px;width:1664px;font-size:24px;color:#6B7890">Engineering Command Centre · 4</p>
+<p style="position:absolute;left:128px;bottom:64px;width:1664px;font-size:24px;color:#6B7890">Engineering Command Centre · 5</p>
 <aside>The timing argument. If we wait, each team will have picked its own AI tool with its own data handling, and retrofitting governance becomes much harder. Starting with a small governed pilot lets us set the pattern: evidence, approval, audit, before usage scales.</aside>
 </section>
